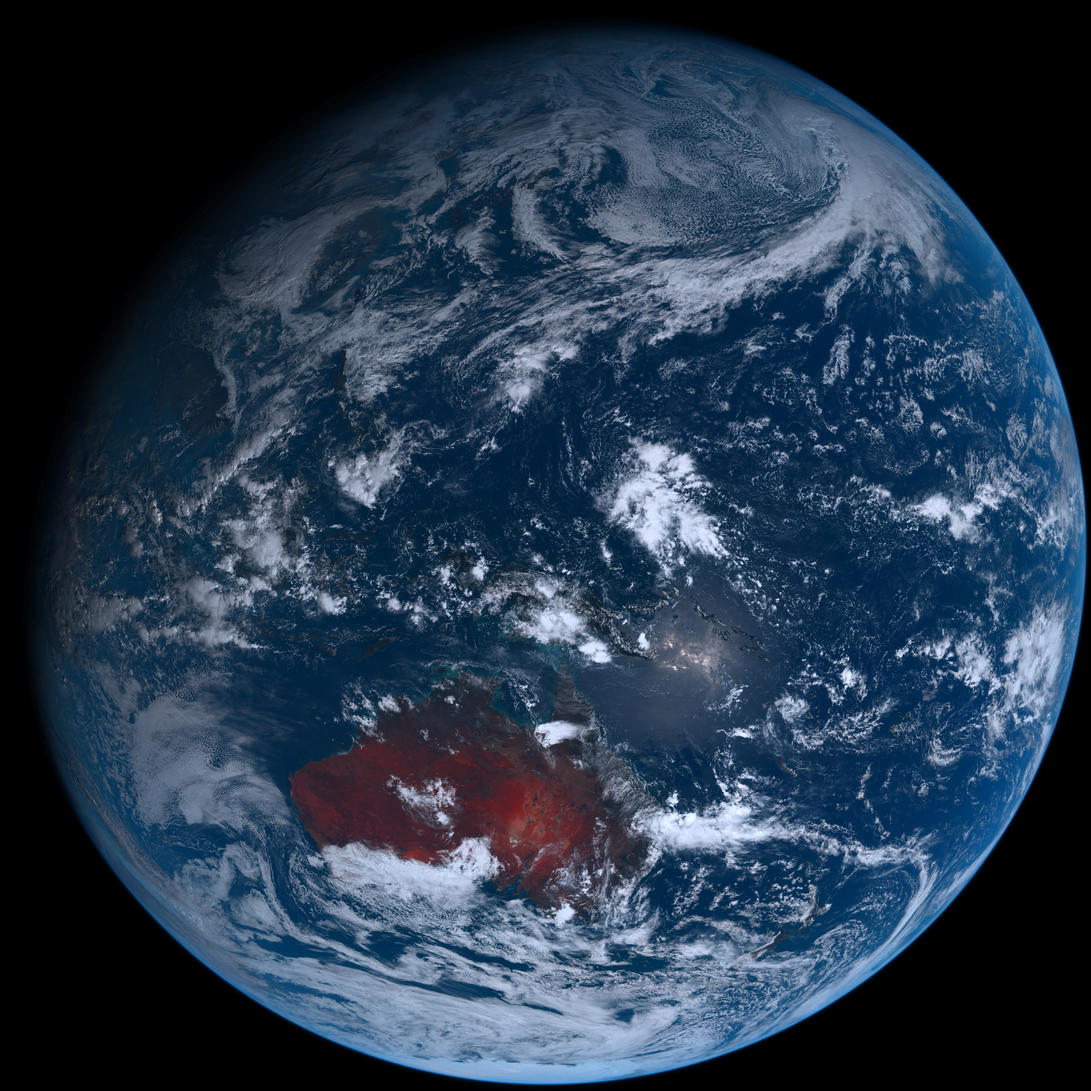
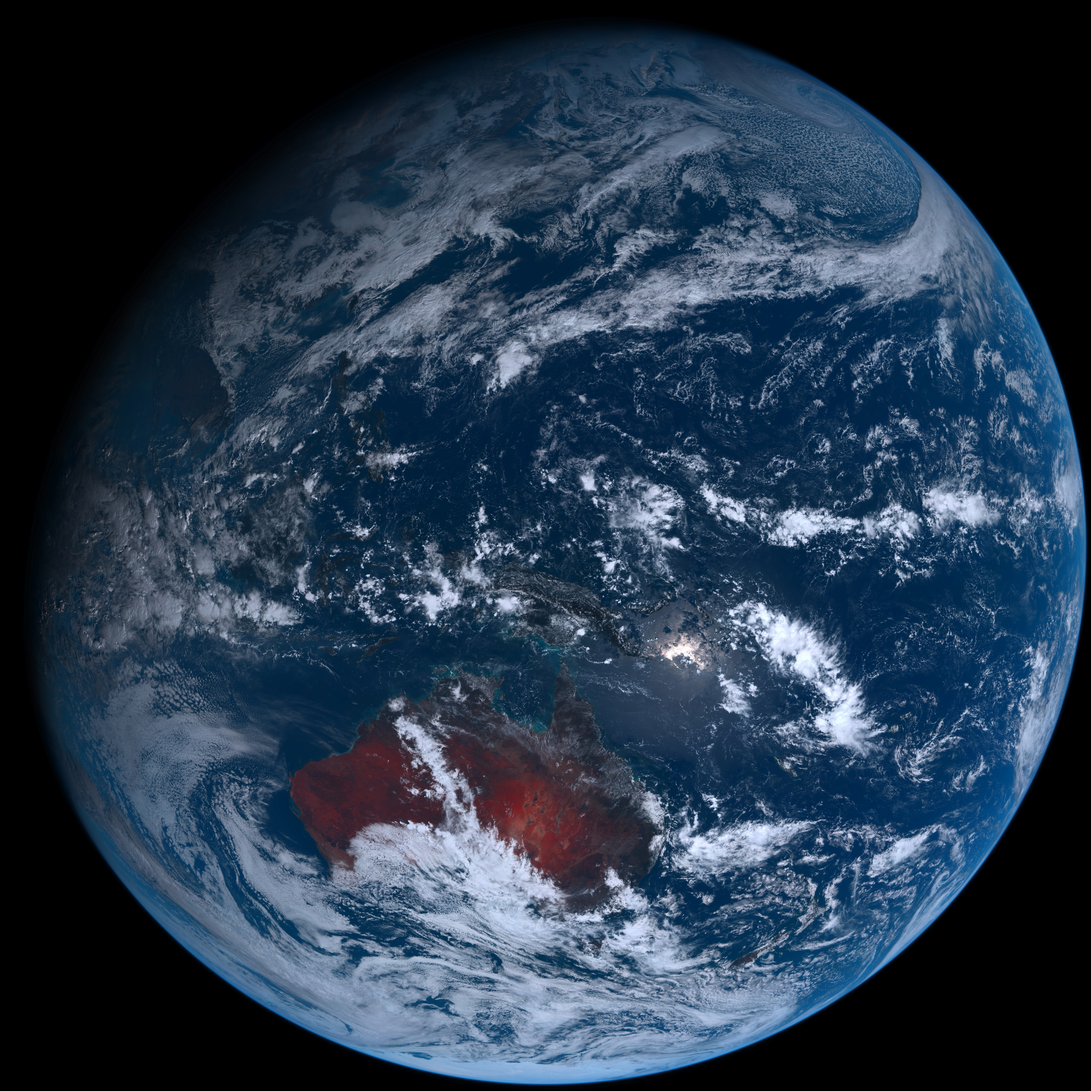
Wednesday 01/03/2024 03:08 +00

diff --git a/README.md b/README.md
@@ -1,12 +1,12 @@
 # ps1
 
 - ### [BingWallpaper](https://github.com/milankomaj/ps1/wiki/BingWallpaper)  [![Generate Wallpapers Github README.md](https://github.com/milankomaj/ps1/actions/workflows/GenWall.yml/badge.svg?event=schedule)](https://github.com/milankomaj/ps1/actions/workflows/GenWall.yml)
-- ##### Tuesday 02/01/2024 03:08:10 +00
+- ##### Wednesday 03/01/2024 03:08:17 +00
 <img src="BingWallpaper/latest.jpg" width="700" height="auto" title="👉  BingWallpaper  👈">
-Prayer flags in Phobjikha Valley, Bhutan (© John Warburton-Lee/DanitaDelimont.com)
+Bodleian Library, University of Oxford, England (© Andrew Holt/Getty Images)
 
 - ### [Himawari](https://github.com/milankomaj/ps1/wiki/Himawari) [![Generate Wallpapers Github README.md](https://github.com/milankomaj/ps1/actions/workflows/GenWall.yml/badge.svg?event=schedule)](https://github.com/milankomaj/ps1/actions/workflows/GenWall.yml) [![Video](https://github.com/milankomaj/ps1/actions/workflows/video.yml/badge.svg?event=schedule)](https://github.com/milankomaj/ps1/actions/workflows/video.yml)
-- ##### Tuesday 02/01/2024 03:08:44 +00
+- ##### Wednesday 03/01/2024 03:08:51 +00
 <img src="Himawari/latest.jpg" width="auto" height="371" title="👉  Himawari  👈"> <img src="Himawari/pifd/himawari_pifd.webp" width="auto" height="371"/>
 
 
